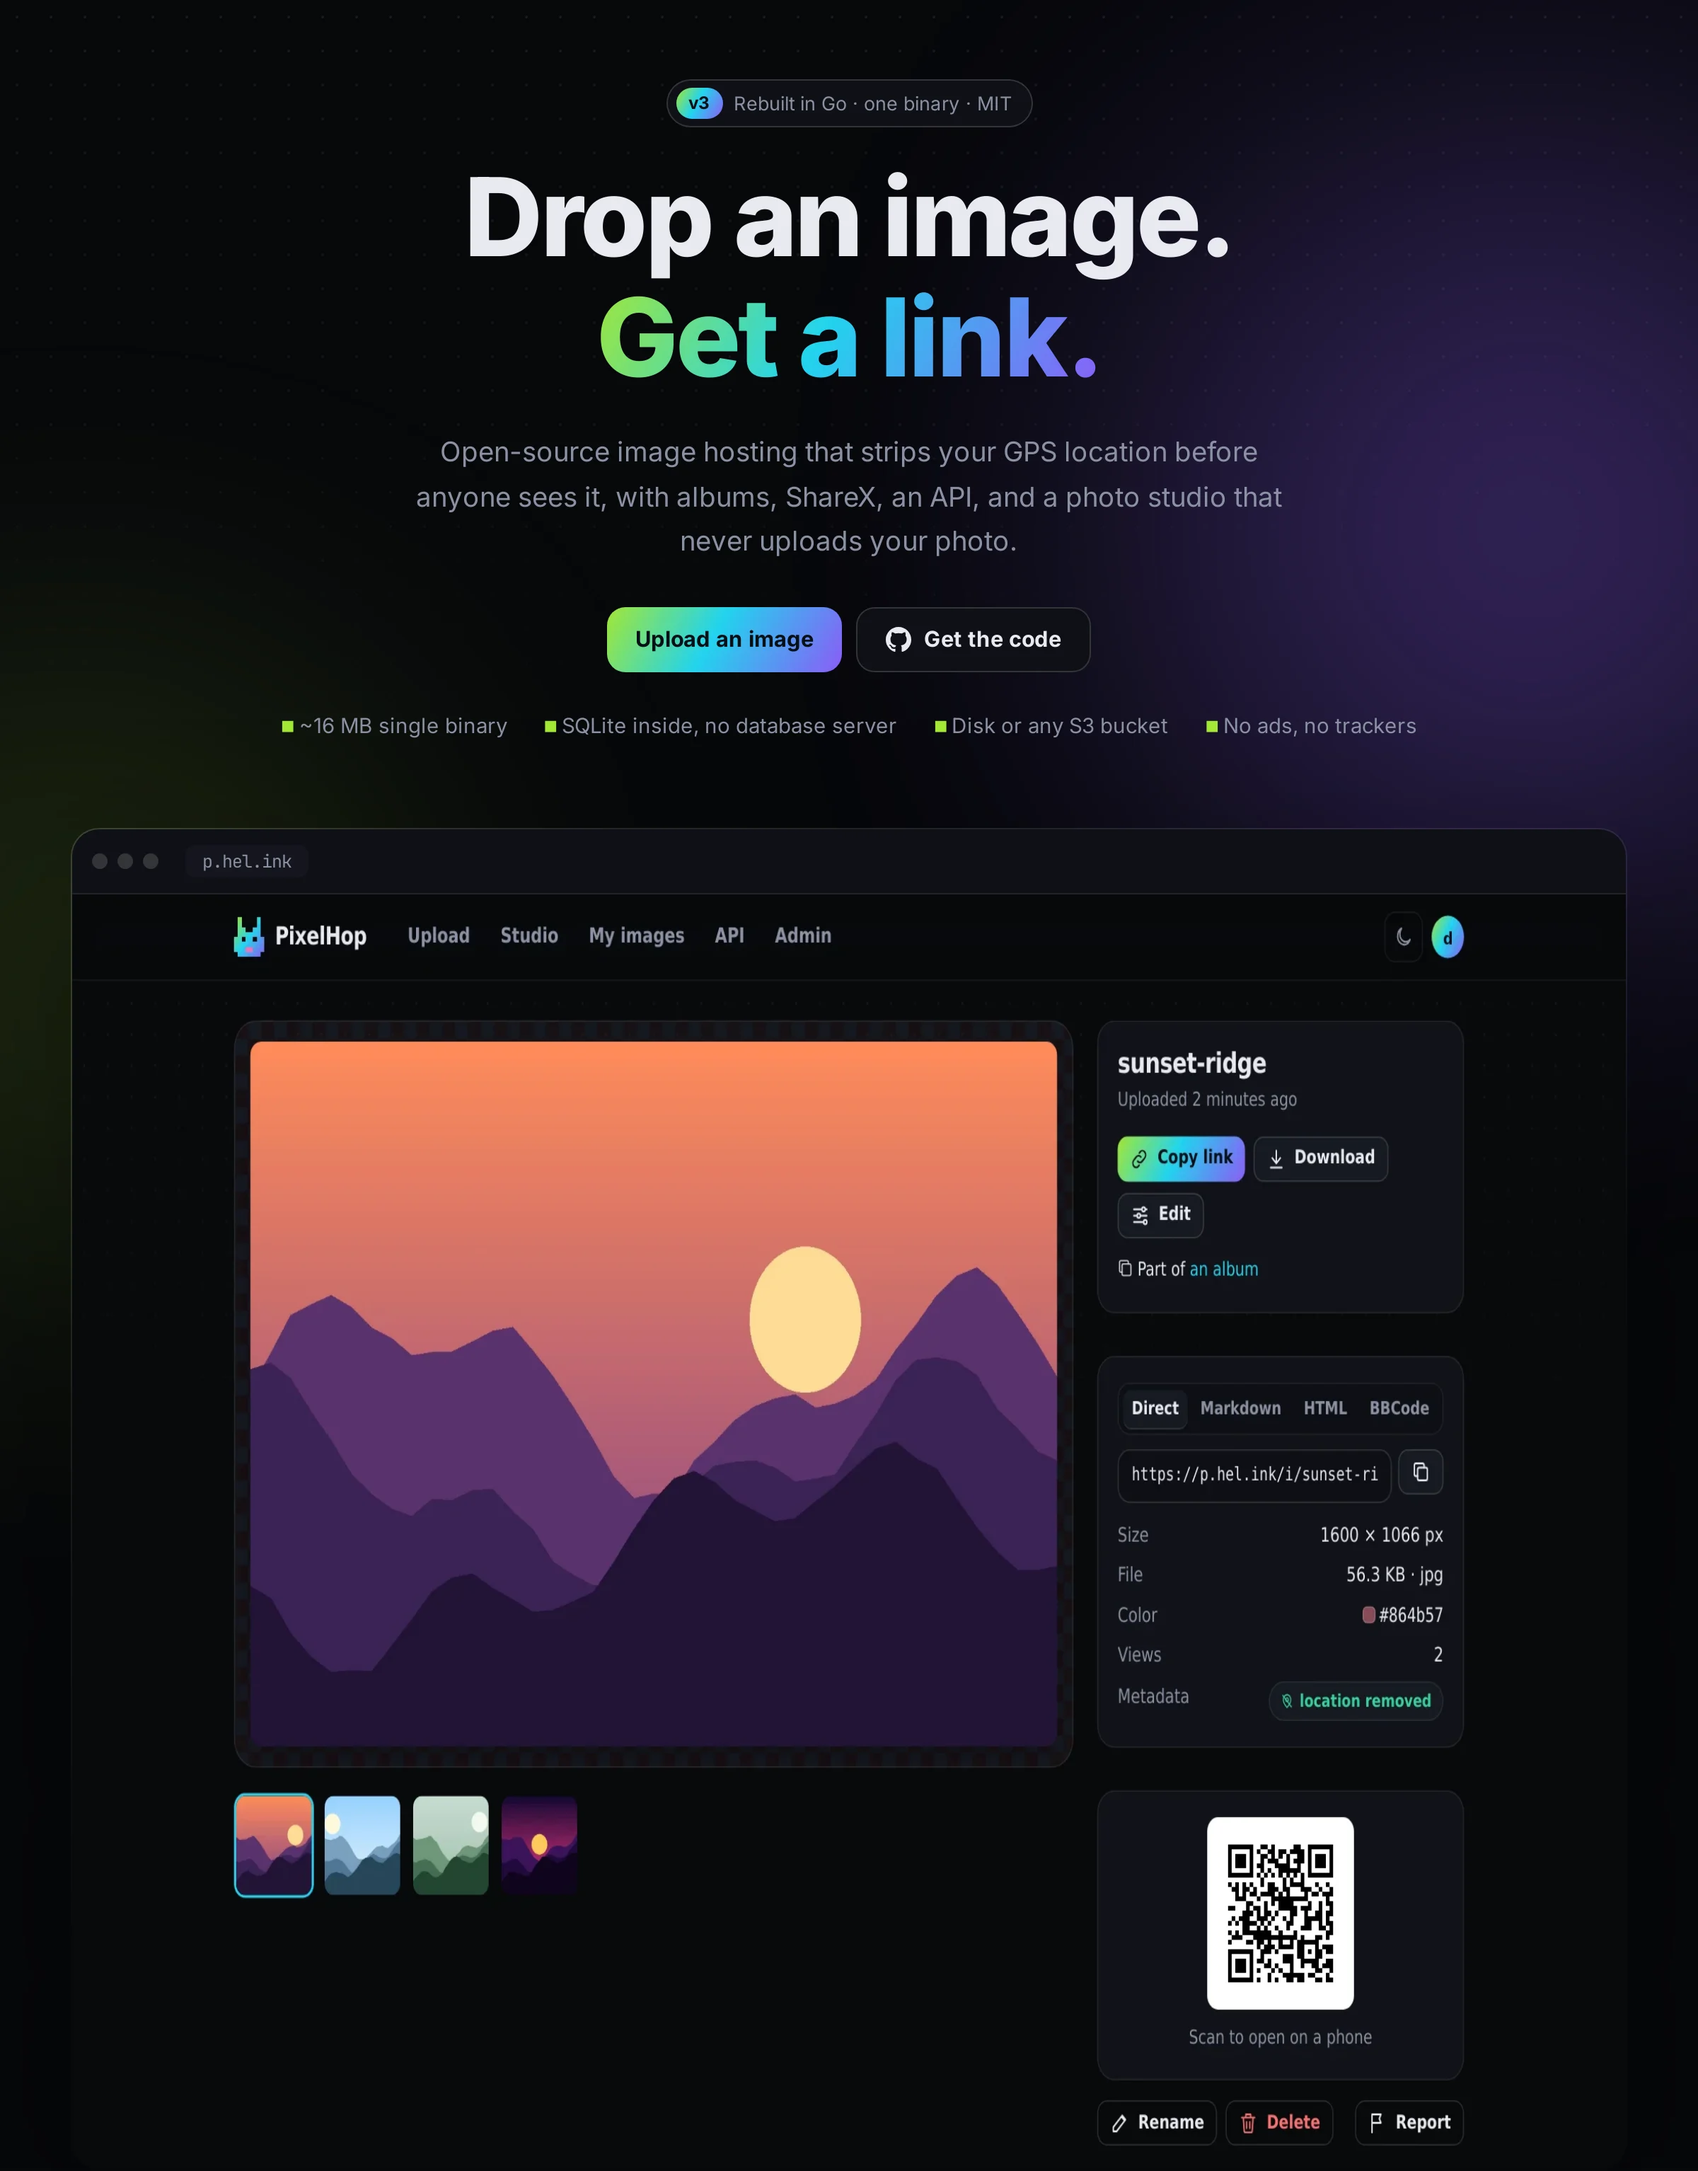
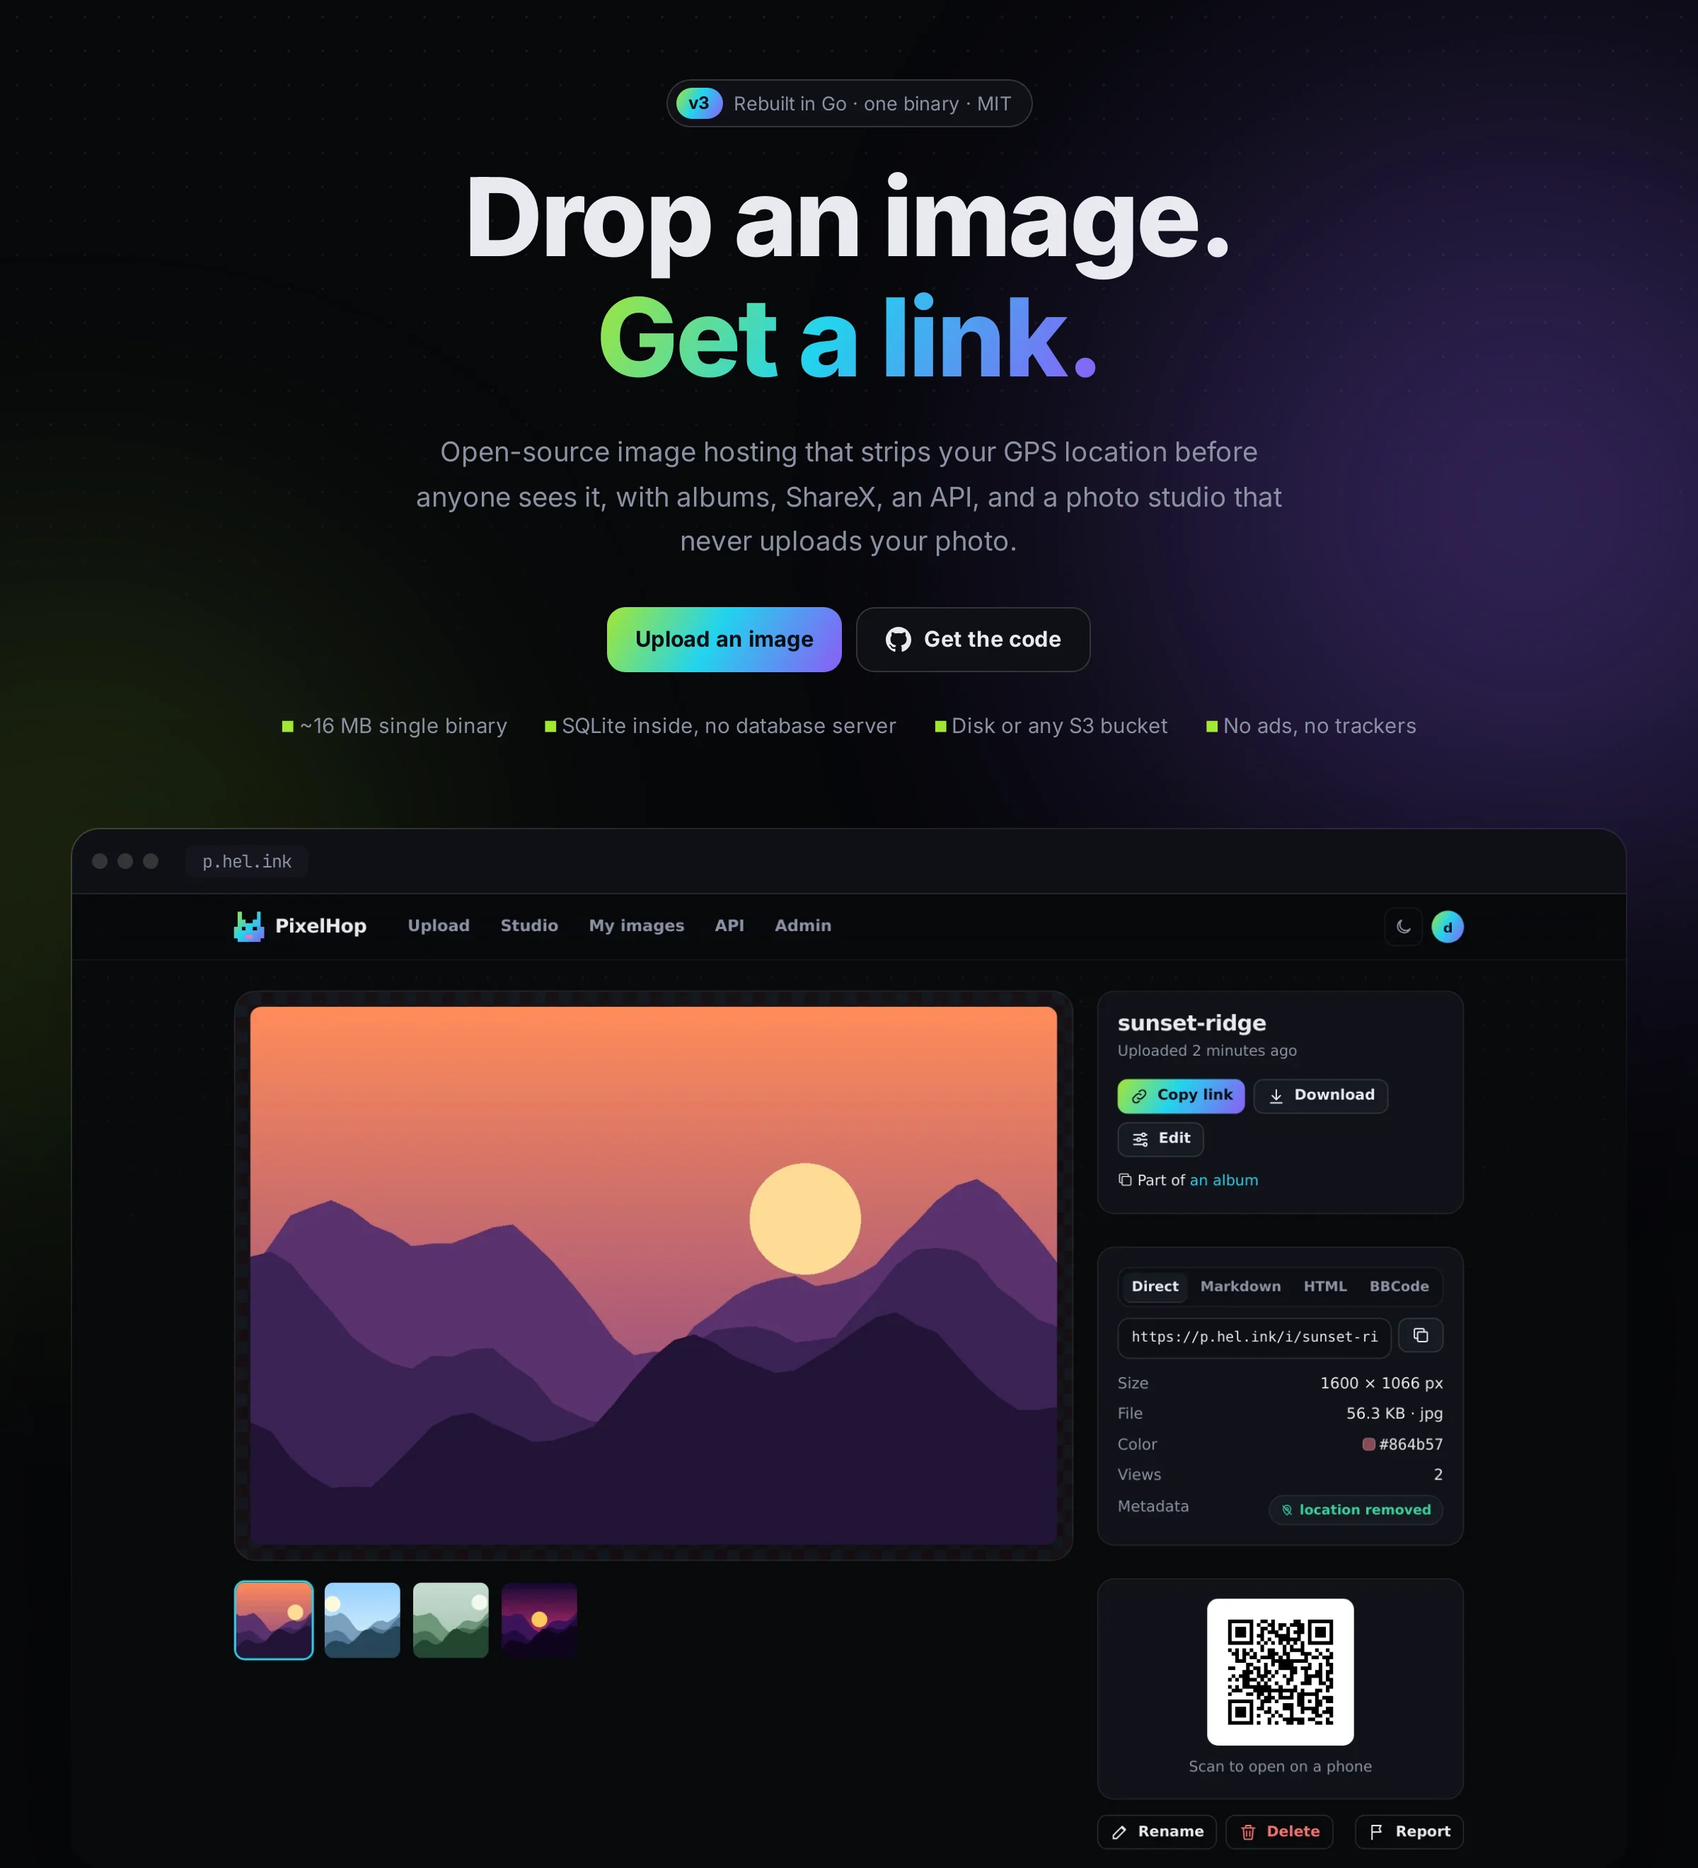
Keep images in proportion; refreshed PixelHop picture

diff --git a/docs/assets/css/site.css b/docs/assets/css/site.css
@@ -41,7 +41,7 @@ html { scroll-behavior: smooth; }
 body { margin: 0; background: var(--ground); color: var(--text); font: 16px/1.65 var(--sans); -webkit-font-smoothing: antialiased; }
 body::before { content: ""; position: fixed; inset: 0; z-index: -1; pointer-events: none;
   background-image: radial-gradient(var(--dot) 1px, transparent 1px); background-size: 24px 24px; mask-image: linear-gradient(#000, transparent 80%); }
-img { max-width: 100%; display: block; }
+img { max-width: 100%; height: auto; display: block; }
 a { color: var(--cyan); text-decoration: none; }
 a:hover { text-decoration: underline; text-underline-offset: 3px; }
 h1, h2, h3 { margin: 0 0 .45em; line-height: 1.08; letter-spacing: -.03em; }
